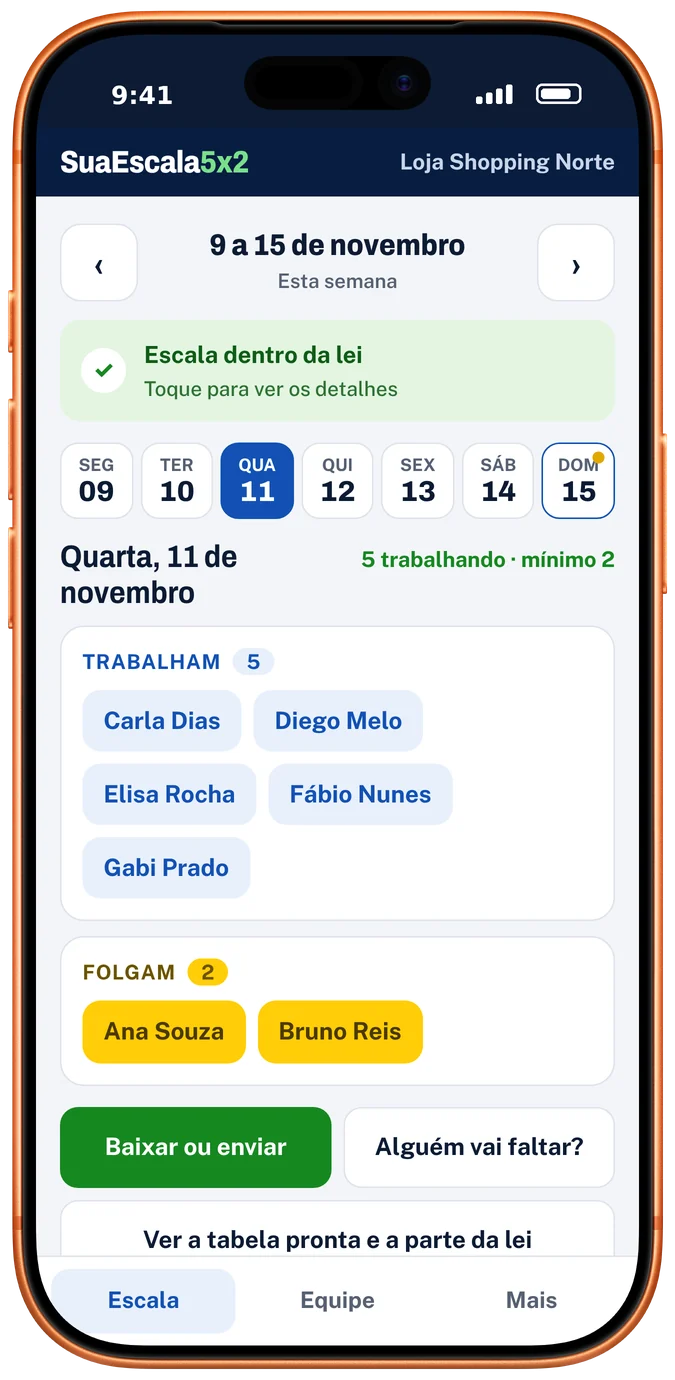
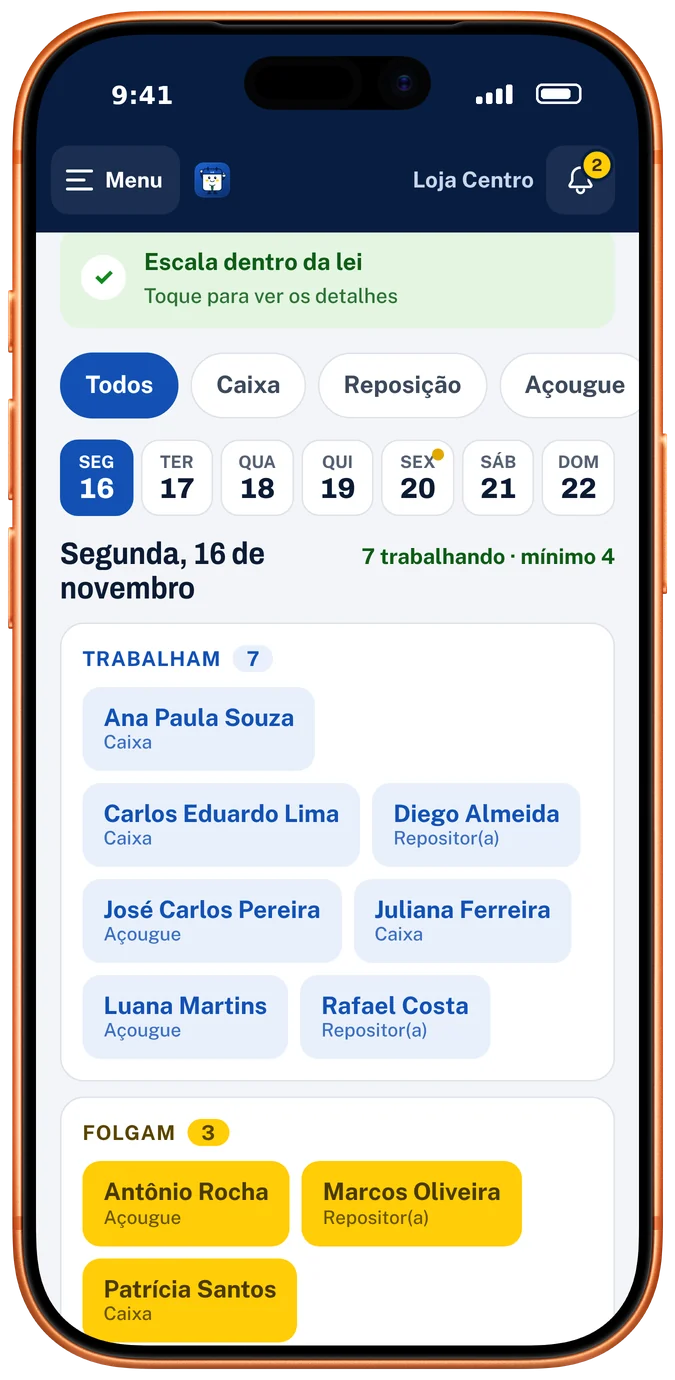
Prints do app novo na página de vendas
iPhone 17 Pro e MacBook Pro M5 com a interface atual (modo claro):
quiz por função, escala do dia com setores e "Escala dentro da lei",
folha "Publicar e compartilhar" com WhatsApp, PDF, Word, Excel e
PowerPoint, e a semana no computador com o menu lateral. Demo
Mercadinho Bom Preço / Loja Centro. Textos alternativos e abas da
seção "por dentro" atualizados; cache ?v=20261115c.

Claude-Session: https://claude.ai/code/session_01HxkLZ3gGDkC4UUqvQGUqJ2

diff --git a/app/public/index.html b/app/public/index.html
@@ -391,8 +391,8 @@ dialog::backdrop{background:rgba(6,21,51,.7);backdrop-filter:blur(4px)}
     </div>
     <div class="vitrine" data-e style="--d:2">
       <img class="ze-espia" src="img/mascote.svg?v=20261115b" alt="Zé Folga, o mascote da Sua Escala 5x2">
-      <img class="mac-real" src="img/mac-tabela.webp?v=20261115b" width="1544" height="1016" alt="A Sua Escala 5x2 num MacBook Pro: a tabela pronta, com as formas de enviar e as folgas de cada funcionário.">
-      <img class="iphone-real" src="img/iphone-escala.webp?v=20261115b" width="675" height="1380" alt="A Sua Escala 5x2 num iPhone 17 Pro: quem trabalha e quem folga no dia.">
+      <img class="mac-real" src="img/mac-tabela.webp?v=20261115c" width="1544" height="1016" alt="A Sua Escala 5x2 num MacBook Pro: a escala da semana com as folgas de cada colaborador e o aviso de escala dentro da lei.">
+      <img class="iphone-real" src="img/iphone-escala.webp?v=20261115c" width="675" height="1380" alt="A Sua Escala 5x2 num iPhone 17 Pro: quem trabalha e quem folga no dia, dentro da lei.">
       <div class="chip c1"><b>✓</b><div>Dentro da lei<small>conferido antes de entregar</small></div></div>
       <div class="chip c2"><b>2</b><div>folgas por funcionário<small>como manda a nova lei</small></div></div>
     </div>
@@ -483,15 +483,15 @@ dialog::backdrop{background:rgba(6,21,51,.7);backdrop-filter:blur(4px)}
     </div>
     <div class="app-grid">
       <div class="abas" role="tablist">
-        <button class="aba on" role="tab" aria-selected="true" data-tela="0"><strong>1. Responda as perguntas</strong><span>Uma por tela, com a sugestão certa para o seu negócio. Cole a lista da equipe do WhatsApp.</span></button>
-        <button class="aba" role="tab" aria-selected="false" data-tela="1"><strong>2. A escala sai pronta</strong><span>As 4 semanas com as folgas em amarelo e quantas pessoas trabalham em cada dia.</span></button>
-        <button class="aba" role="tab" aria-selected="false" data-tela="2"><strong>3. Baixe ou envie do seu jeito</strong><span>WhatsApp, PDF, Excel, Google Planilhas, imagem ou o link para a equipe.</span></button>
+        <button class="aba on" role="tab" aria-selected="true" data-tela="0"><strong>1. Responda as perguntas</strong><span>Uma por tela, só com números: que dias abre e quantas pessoas em cada função. Sem digitar nomes.</span></button>
+        <button class="aba" role="tab" aria-selected="false" data-tela="1"><strong>2. A escala sai pronta</strong><span>Quem trabalha e quem folga em cada dia, por setor, com o aviso de que está dentro da lei.</span></button>
+        <button class="aba" role="tab" aria-selected="false" data-tela="2"><strong>3. Baixe ou envie do seu jeito</strong><span>WhatsApp, PDF, Word, Excel, PowerPoint, Google Planilhas ou o link para a equipe.</span></button>
       </div>
       <div class="fundo-app" data-r>
         <div class="iphone-troca tela-img">
-          <img class="on" src="img/iphone-quiz.webp?v=20261115b" width="675" height="1380" alt="A primeira pergunta num iPhone 17 Pro: qual é o seu negócio.">
-          <img src="img/iphone-escala.webp?v=20261115b" width="675" height="1380" alt="A escala pronta num iPhone 17 Pro: quem trabalha e quem folga no dia." loading="lazy">
-          <img src="img/iphone-saidas.webp?v=20261115b" width="675" height="1380" alt="As formas de enviar a escala num iPhone 17 Pro: WhatsApp, PDF, Excel, CSV e Google Planilhas." loading="lazy">
+          <img class="on" src="img/iphone-quiz.webp?v=20261115c" width="675" height="1380" alt="O quiz num iPhone 17 Pro: quantos colaboradores em cada função, só com números.">
+          <img src="img/iphone-escala.webp?v=20261115c" width="675" height="1380" alt="A escala pronta num iPhone 17 Pro: quem trabalha e quem folga no dia, separado por setor." loading="lazy">
+          <img src="img/iphone-saidas.webp?v=20261115c" width="675" height="1380" alt="Publicar e compartilhar num iPhone 17 Pro: WhatsApp, link da equipe, PDF, Word, Excel e PowerPoint." loading="lazy">
         </div>
       </div>
     </div>
